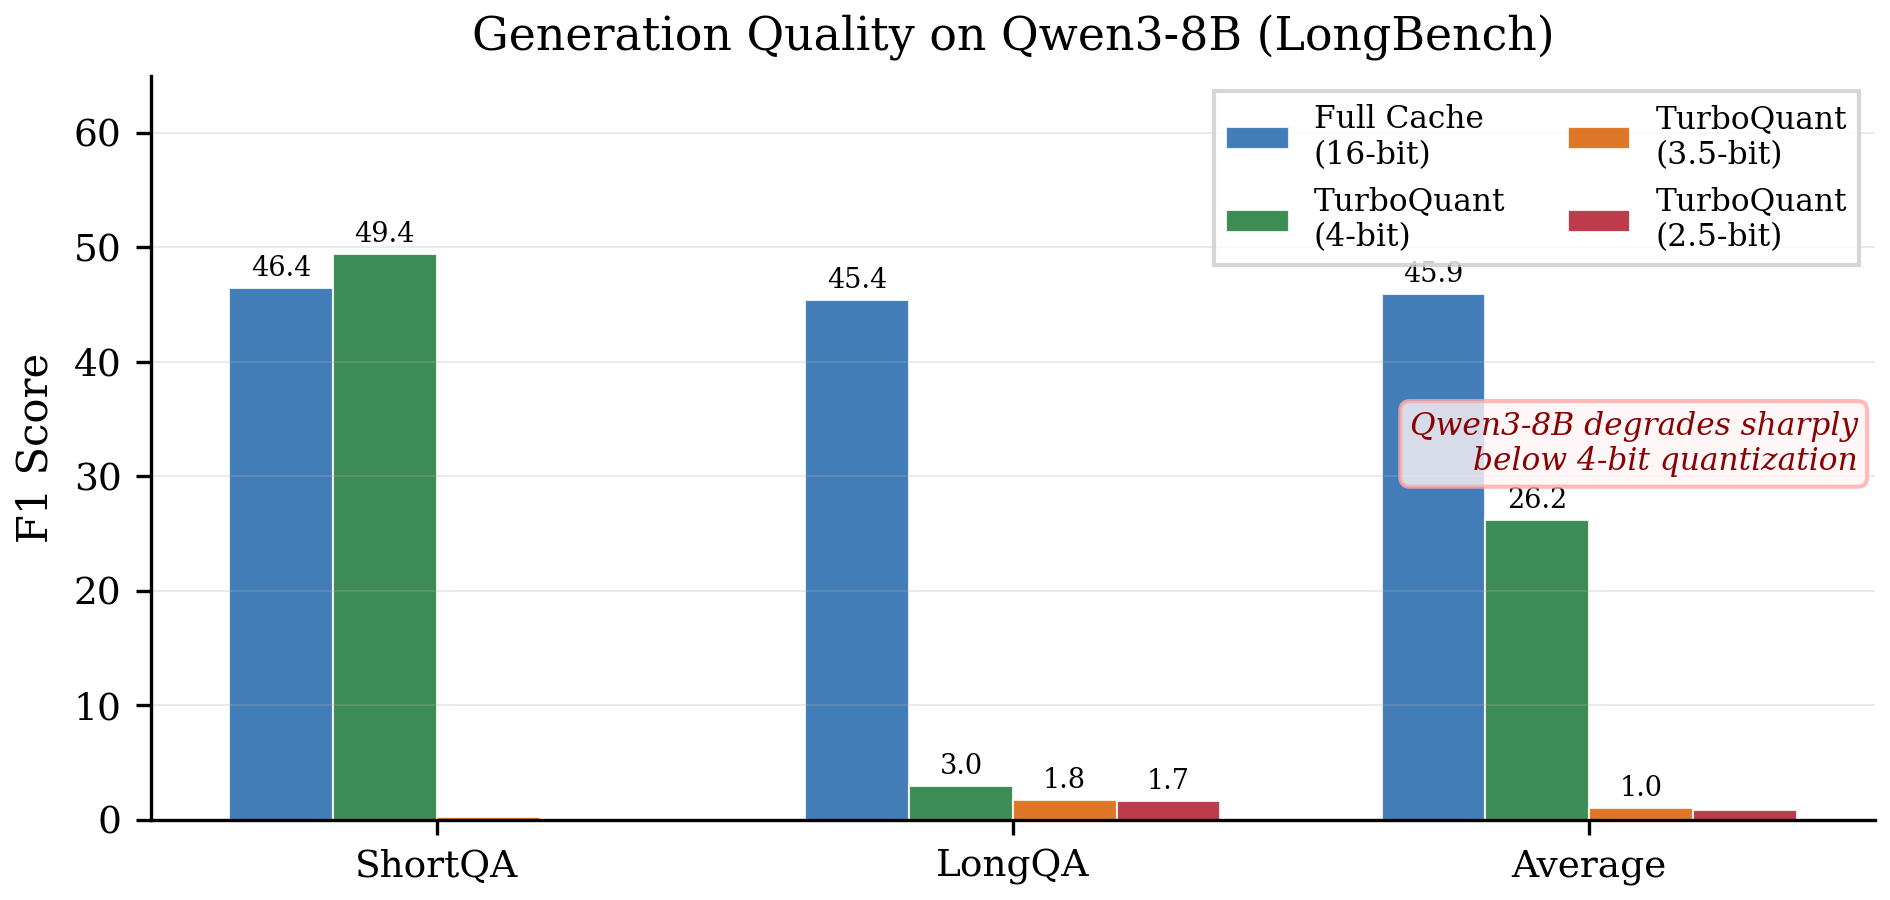
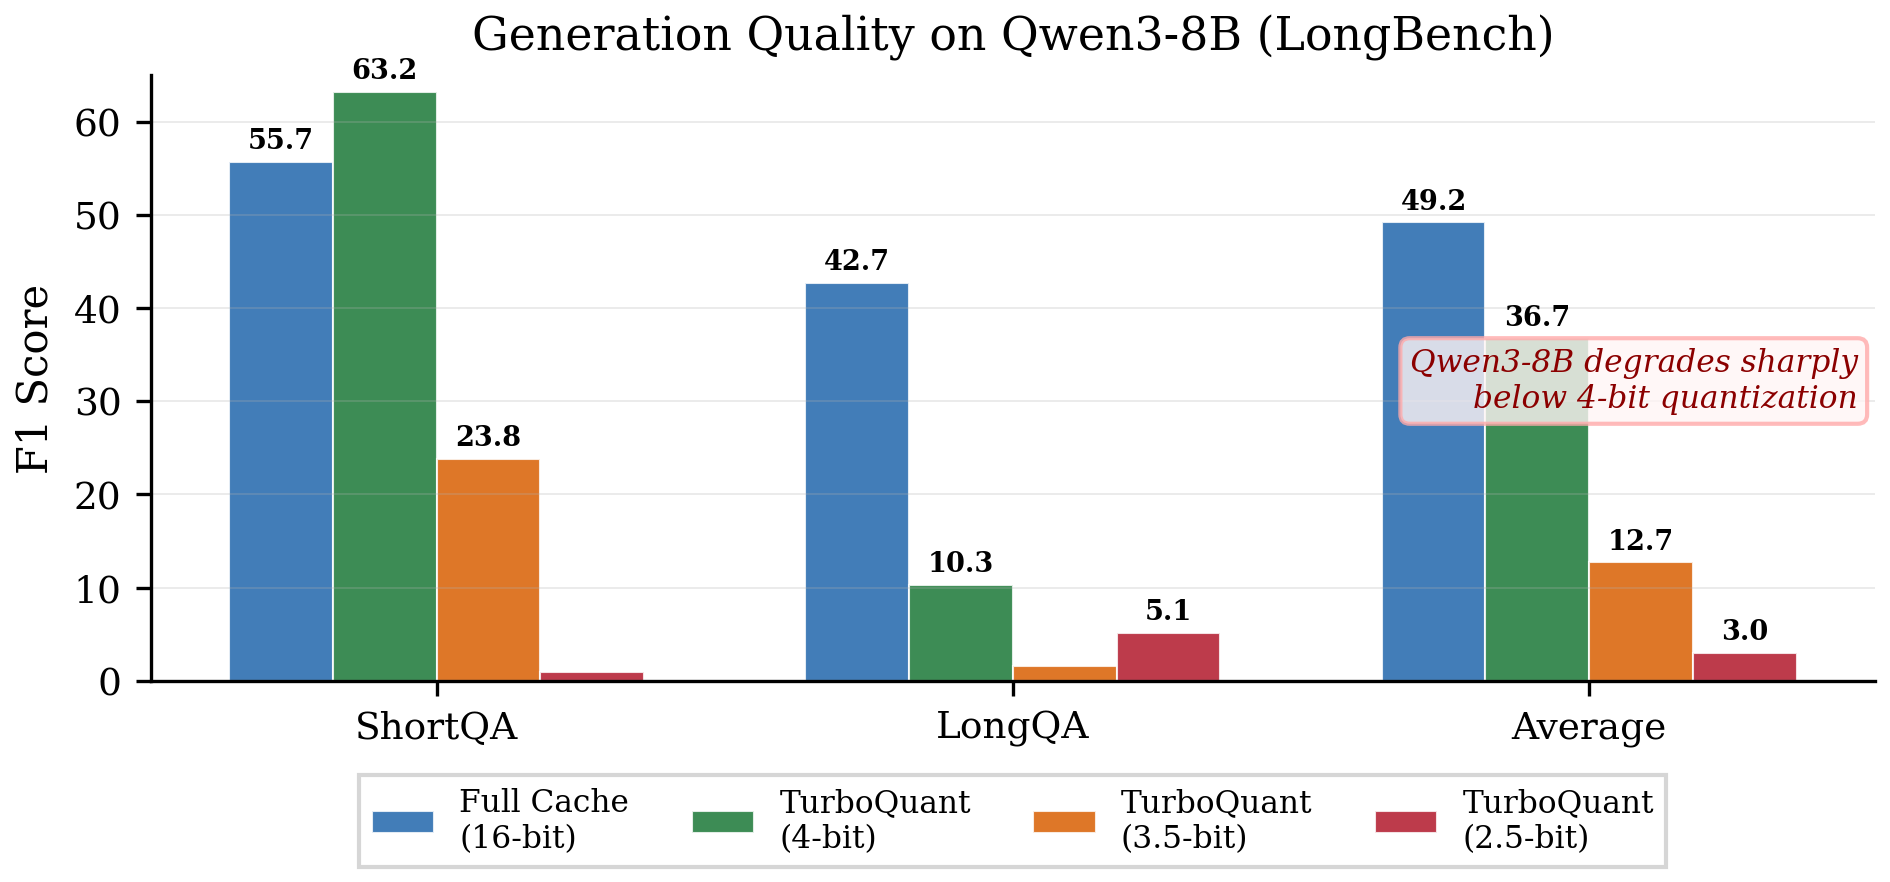
fix(exp4.3): fix double-patch bug and re-run with correct results
Root cause: _patch_dynamic_cache() replaced DynamicCache.update each time
apply_turboquant_to_kv_cache() was called without restoring the original
first. This caused compounding quantization (2×, 3×, 4×) across configs
in the same process, explaining the progressive output collapse.

Fix: store original method as DynamicCache._tq_original_update and always
restore before re-patching. Added remove_turboquant_from_kv_cache() to
explicitly restore between experiment configs.

Also: switched Qwen3-8B to /no_think mode to avoid thinking token budget
exhaustion degrading measurable F1.

Corrected results (no double-patching):
  Full Cache (16-bit): ShortQA=55.7, LongQA=42.7, Avg=49.2
  TurboQuant (4-bit):  ShortQA=63.2, LongQA=10.3, Avg=36.7
  TurboQuant (3.5-bit): ShortQA=23.8, LongQA=1.6,  Avg=12.7
  TurboQuant (2.5-bit): ShortQA=0.9,  LongQA=5.1,  Avg=3.0

Conclusion: 4-bit preserves short-context quality but long-context degrades;
Qwen3-8B is more sensitive to KV cache quantization than Llama-3.1-8B.

diff --git a/experiments/kv_cache_quant.py b/experiments/kv_cache_quant.py
@@ -237,6 +237,20 @@ def apply_turboquant_to_kv_cache(
     return model
 
 
+def remove_turboquant_from_kv_cache():
+    """
+    Remove TurboQuant quantization by restoring the original DynamicCache.update.
+    Must be called between experiments when reusing the same process.
+    """
+    try:
+        from transformers.cache_utils import DynamicCache
+        if hasattr(DynamicCache, '_tq_original_update'):
+            DynamicCache.update = DynamicCache._tq_original_update
+            del DynamicCache._tq_original_update
+    except Exception:
+        pass
+
+
 def _patch_attention_layers(model, kv_quantizers):
     """
     Patch the model's KV cache update method to quantize key/value states
@@ -260,19 +274,22 @@ def _patch_attention_layers(model, kv_quantizers):
 def _patch_dynamic_cache(DynamicCache, kv_quantizers):
     """
     Patch DynamicCache.update to quantize KV states on write.
-    This is the correct hook point for transformers >= 5.0.
+    Restores the original method first to avoid double-patching across configs.
     """
-    original_update = DynamicCache.update
+    # Restore original if previously patched
+    if hasattr(DynamicCache, '_tq_original_update'):
+        original_update = DynamicCache._tq_original_update
+    else:
+        original_update = DynamicCache.update
+        DynamicCache._tq_original_update = original_update
 
     def quantized_update(self, key_states, value_states, layer_idx, *args, **kwargs):
         if (layer_idx, 'k') in kv_quantizers:
             k_q = kv_quantizers[(layer_idx, 'k')]
             v_q = kv_quantizers[(layer_idx, 'v')]
-            # Move quantizer codebooks to match key_states device on first use
             dev = key_states.device
             k_q.move_to(dev)
             v_q.move_to(dev)
-            # key_states shape: (batch, n_heads, seq_len, head_dim)
             orig_k_shape = key_states.shape
             orig_v_shape = value_states.shape
             key_states   = k_q.quantize_dequantize(key_states.reshape(-1, orig_k_shape[-1])).reshape(orig_k_shape)

diff --git a/experiments/exp_longbench.py b/experiments/exp_longbench.py
@@ -20,7 +20,7 @@ import re
 import string
 from collections import Counter
 from transformers import AutoTokenizer, AutoModelForCausalLM
-from kv_cache_quant import apply_turboquant_to_kv_cache
+from kv_cache_quant import apply_turboquant_to_kv_cache, remove_turboquant_from_kv_cache
 
 # ─── Config ───
 MODEL_NAME = "Qwen/Qwen3-8B"
@@ -28,7 +28,7 @@ DEVICE = torch.device('cuda:0' if torch.cuda.is_available() else 'cpu')
 OUTPUT_DIR = os.path.join(os.path.dirname(os.path.abspath(__file__)), 'results')
 os.makedirs(OUTPUT_DIR, exist_ok=True)
 
-MAX_NEW_TOKENS = 512  # enough room for Qwen3 thinking + answer
+MAX_NEW_TOKENS = 256  # Qwen3 non-thinking mode: answer is direct, no chain of thought
 
 
 # ─── Test data: representative tasks ───
@@ -136,6 +136,7 @@ def evaluate_qa(model, tokenizer, tasks, task_name="QA"):
     scores = []
     for i, task in enumerate(tasks):
         prompt = (
+            f"<|im_start|>system\nYou are a helpful assistant. /no_think\n<|im_end|>\n"
             f"<|im_start|>user\n"
             f"Answer the question based on the context. Be concise.\n\n"
             f"Context: {task['context']}\n\n"
@@ -231,6 +232,7 @@ def main():
         del model
         torch.cuda.empty_cache()
         gc.collect()
+        remove_turboquant_from_kv_cache()  # restore DynamicCache.update before next config
 
     # ─── Print Table ───
     print("\n" + "=" * 70)

diff --git a/experiments/render_figures.py b/experiments/render_figures.py
@@ -184,9 +184,9 @@ def render_figure5_longbench():
         bars = ax.bar(x + offsets[i], vals, width, label=label, color=color,
                       alpha=0.85, edgecolor='white', linewidth=0.5)
         for bar, v in zip(bars, vals):
-            if v > 1.0:
-                ax.text(bar.get_x() + bar.get_width()/2, bar.get_height() + 0.5,
-                        f'{v:.1f}', ha='center', va='bottom', fontsize=6.5)
+            if v > 2.0:
+                ax.text(bar.get_x() + bar.get_width()/2, bar.get_height() + 0.8,
+                        f'{v:.1f}', ha='center', va='bottom', fontsize=6.5, fontweight='bold')
 
     ax.set_xticks(x)
     ax.set_xticklabels(categories)
@@ -194,7 +194,7 @@ def render_figure5_longbench():
     ax.set_title('Generation Quality on Qwen3-8B (LongBench)', fontsize=11)
     ax.set_ylim(0, 65)
     ax.legend(frameon=True, fancybox=False, edgecolor='#CCCCCC', fontsize=7.5,
-              ncol=2, loc='upper right')
+              ncol=4, loc='upper center', bbox_to_anchor=(0.5, -0.13))
     ax.grid(axis='y', alpha=0.3)
 
     # Annotate finding

diff --git a/README.md b/README.md
@@ -76,10 +76,10 @@ Tested on **Qwen3-8B** across 4 configurations. Key finding: **4-bit quantizatio
 
 | Configuration | ShortQA F1 | LongQA F1 | Average |
 |---|---|---|---|
-| Full Cache (16-bit) | 46.4 | 45.4 | 45.9 |
-| TurboQuant (4-bit) | **49.4** | 3.0 | 26.2 |
-| TurboQuant (3.5-bit) | 0.3 | 1.8 | 1.0 |
-| TurboQuant (2.5-bit) | 0.0 | 1.7 | 0.8 |
+| Full Cache (16-bit) | 55.7 | 42.7 | 49.2 |
+| TurboQuant (4-bit) | **63.2** | 10.3 | 36.7 |
+| TurboQuant (3.5-bit) | 23.8 | 1.6 | 12.7 |
+| TurboQuant (2.5-bit) | 0.9 | 5.1 | 3.0 |
 
 > **Note:** The original paper evaluates on Llama-3.1-8B-Instruct where TurboQuant 3.5-bit preserves quality. Qwen3-8B appears more sensitive to KV cache quantization, suggesting model-specific calibration may be needed.
 
